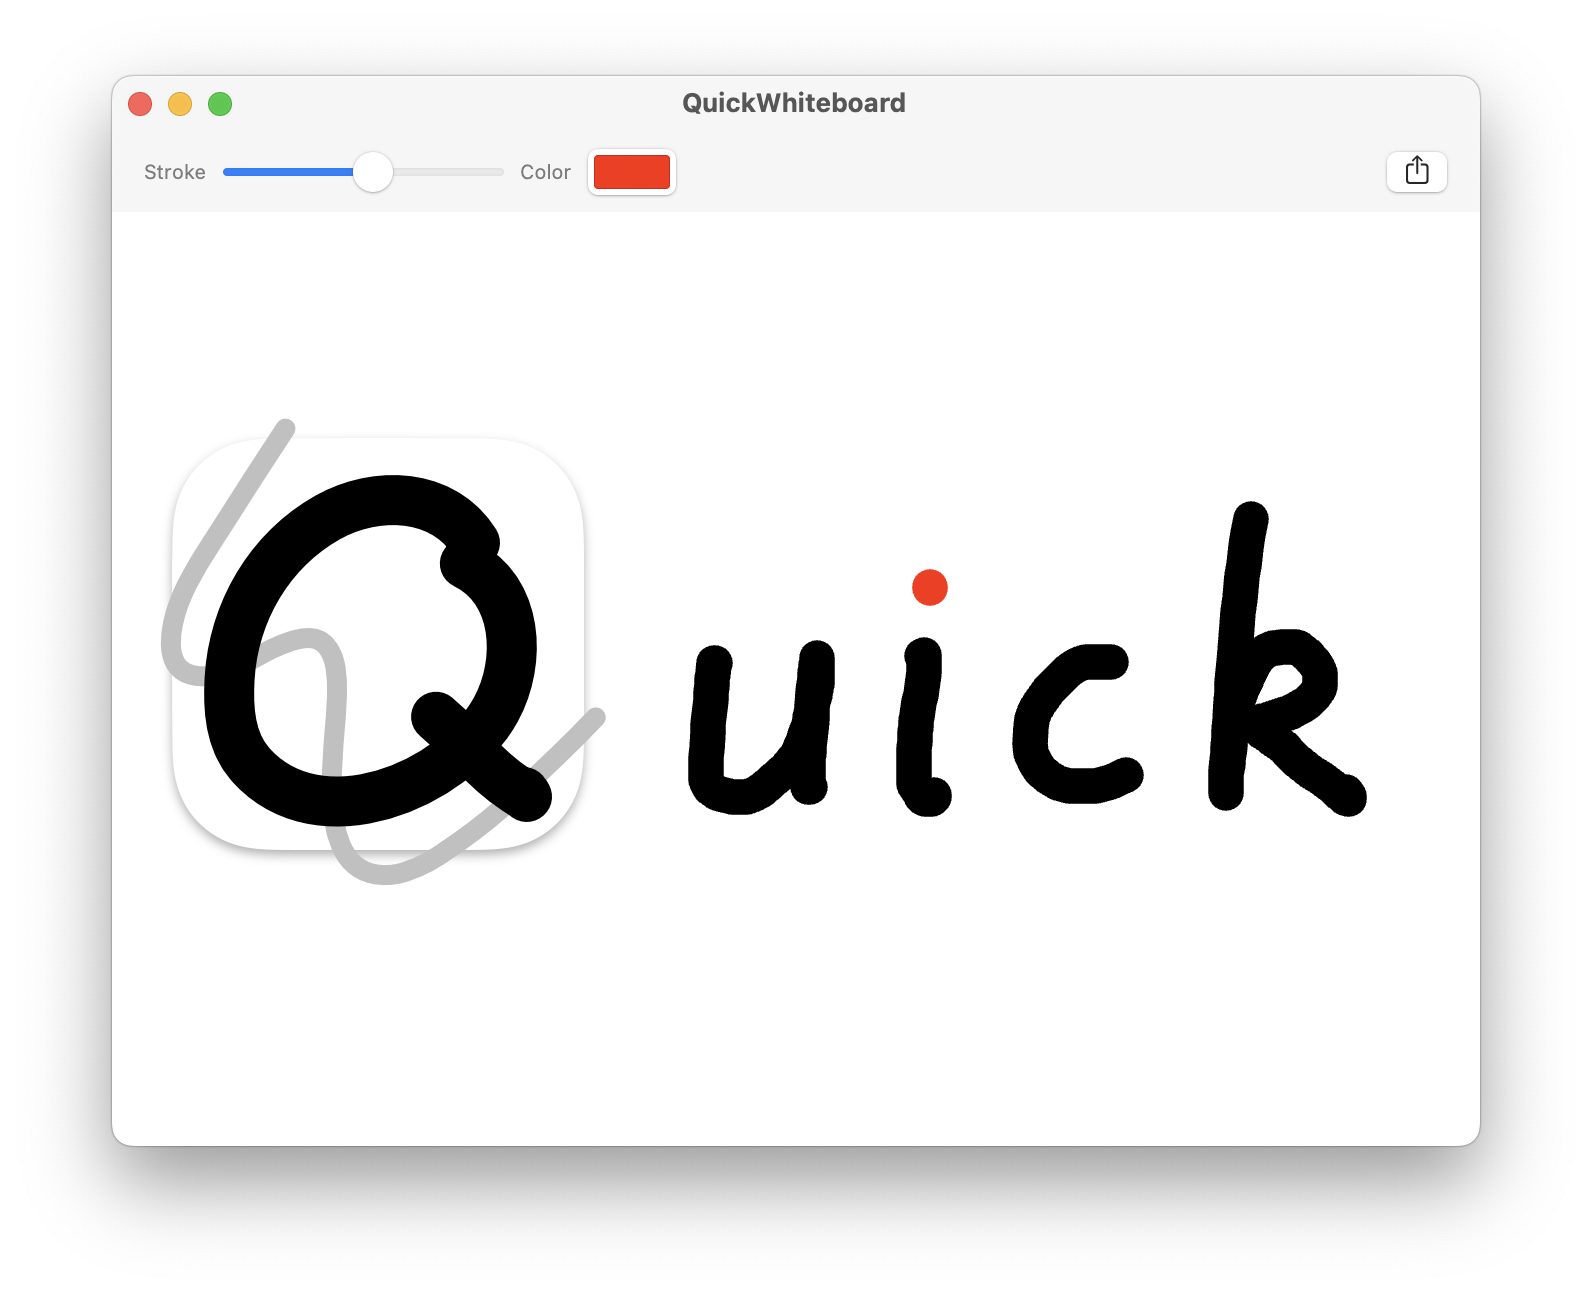
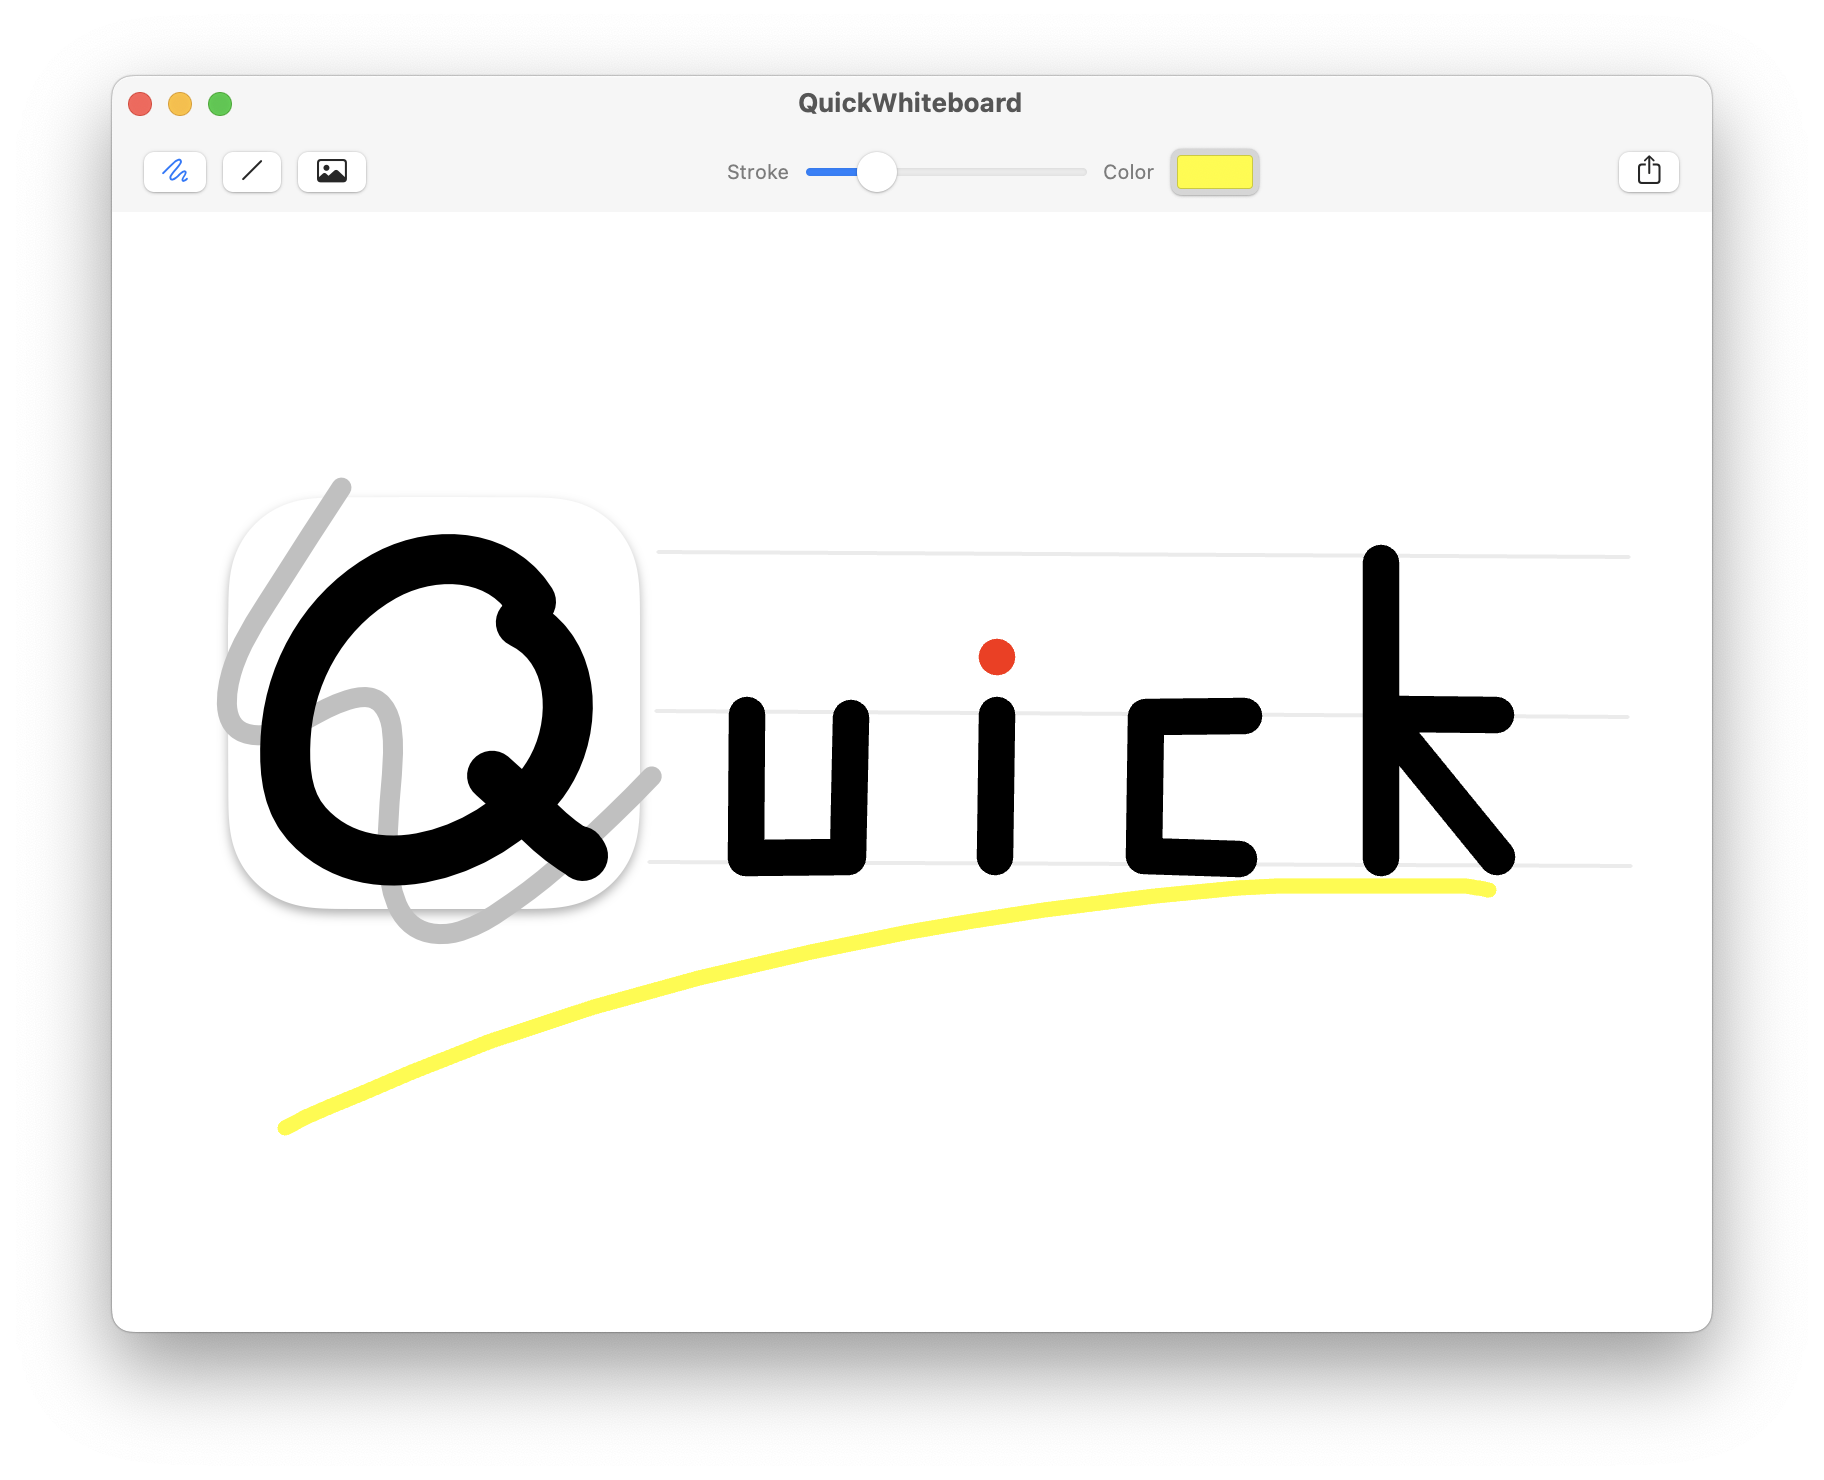
Update

diff --git a/QuickWhiteboard/ToolbarControls.swift b/QuickWhiteboard/ToolbarControls.swift
@@ -28,14 +28,9 @@ struct ExportButton: NSViewRepresentable {
     }
     
     func updateNSView(_ nsView: NSButton, context: Context) {
-        nsView.target = context.coordinator
     }
     
     typealias NSViewType = NSButton
-    
-    func makeCoordinator() -> ToolbarDelegate? {
-        toolbarDelegate
-    }
 }
 
 struct MainToolbar: View {
@@ -45,6 +40,15 @@ struct MainToolbar: View {
 
     var body: some View {
         HStack {
+            ForEach(ToolIdentifier.allCases) { id in
+                Button(action: {
+                    delegate?.onClickTool(identifier: id)
+                }, label: {
+                    Image(systemName: id.symbolName)
+                        .foregroundColor(id == dataModel.activeToolIdentifier ? Color.accentColor : Color.primary)
+                })
+            }
+            Spacer()
             Slider(value: $dataModel.strokeWidth, in: 1...32) {
                 Text("Stroke")
                     .font(.caption)
@@ -56,15 +60,6 @@ struct MainToolbar: View {
                     .font(.caption)
                     .foregroundColor(.secondary)
             })
-            Spacer()
-            ForEach(ToolIdentifier.allCases) { id in
-                Button(action: {
-                    delegate?.onClickTool(identifier: id)
-                }, label: {
-                    Image(systemName: id.symbolName)
-                        .foregroundColor(id == dataModel.activeToolIdentifier ? Color.accentColor : Color.primary)
-                })
-            }
             Spacer()
             #if DEBUG
             Button(action: {

diff --git a/README.md b/README.md
@@ -17,7 +17,7 @@
 
 ## Screenshot
 
-<img src="./Screenshot.png" width="796">
+<img src="./Screenshot.png" width="912">
 
 ## License
 
